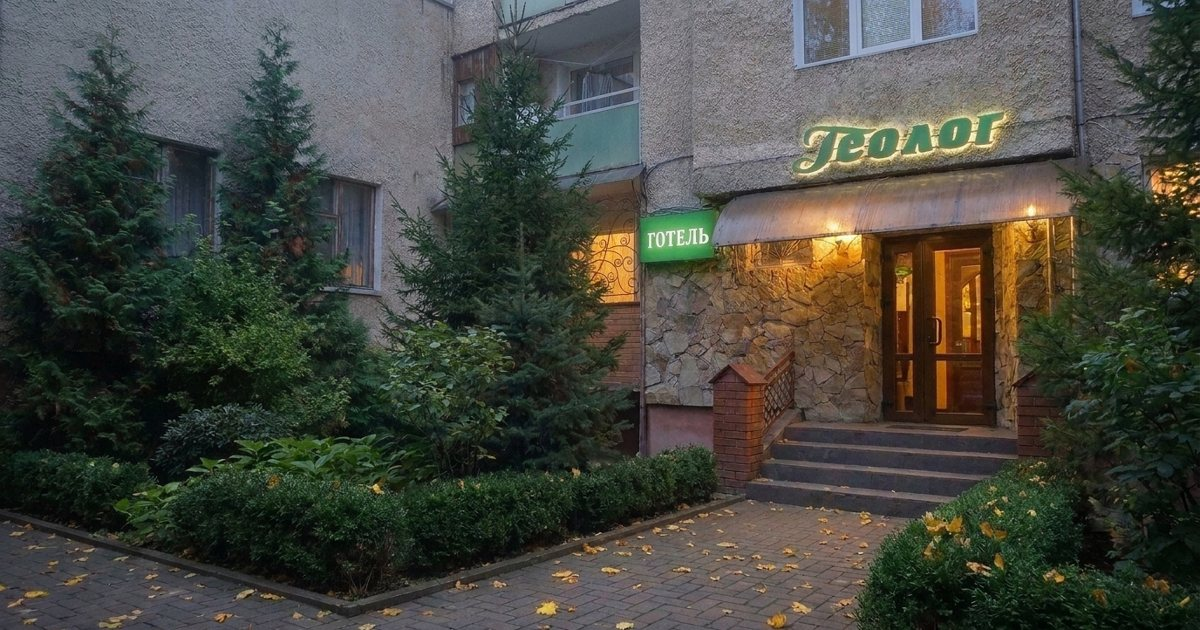
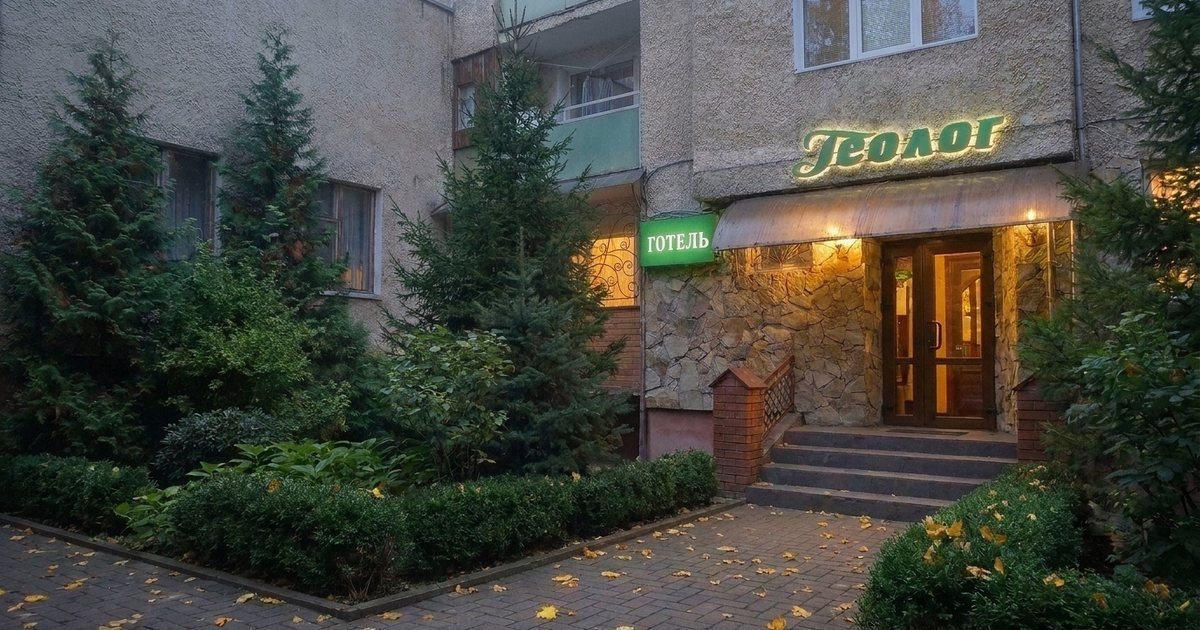
Family room and bathroom: new photos from the owner, retouched

diff --git a/index.html b/index.html
@@ -962,7 +962,7 @@ textarea.inp{height:auto;min-height:92px;padding:13px 14px;line-height:1.45;resi
           <div class="rcard__bar"><div><h3>Двомісний</h3><p>одне велике ліжко або два окремі</p></div><span class="rcard__go" aria-hidden="true"><svg class="i"><use href="#i-arrow"/></svg></span></div>
         </article>
 <article class="rcard">
-          <img width="1600" height="1200" src="img/fam-1.webp" alt="Сімейний номер" loading="lazy" decoding="async">
+          <img width="1200" height="896" src="img/fam-new-1.webp" alt="Сімейний номер" loading="lazy" decoding="async">
           <button class="rcard__hit" type="button" data-open="tpl-fam" aria-label="Сімейний, детальніше"></button>
           <div class="rcard__bar"><div><h3>Сімейний</h3><p>для батьків з дітьми</p></div><span class="rcard__go" aria-hidden="true"><svg class="i"><use href="#i-arrow"/></svg></span></div>
         </article>
@@ -1047,7 +1047,9 @@ textarea.inp{height:auto;min-height:92px;padding:13px 14px;line-height:1.45;resi
       </div>
     </div>
     <div class="gal" id="gal" data-rv tabindex="-1">
+      <button class="gal__i js-lb" type="button" data-cap="Сімейний номер після ремонту, фото готелю"><img width="1200" height="896" src="img/fam-new-1.webp" alt="Сімейний номер після ремонту" loading="lazy" decoding="async"></button>
       <button class="gal__i js-lb" type="button" data-cap="Двомісний номер з великим ліжком, фото готелю"><img width="406" height="900" src="img/dbl-3.webp" alt="Двомісний номер з великим ліжком" loading="lazy" decoding="async"></button>
+      <button class="gal__i js-lb" type="button" data-cap="Ванна кімната з новою плиткою, фото готелю"><img width="896" height="1200" src="img/vanna-1.webp" alt="Ванна кімната з новою плиткою" loading="lazy" decoding="async"></button>
       <button class="gal__i js-lb" type="button" data-cap="Сходи до входу з вивіскою «Геолог», фото готелю"><img width="675" height="900" src="img/vkhid-2.webp" alt="Сходи до входу з вивіскою «Геолог»" loading="lazy" decoding="async"></button>
       <button class="gal__i js-lb" type="button" data-cap="Вхід з вулиці Степана Бандери, ялинки біля ганку, фото готелю"><img width="1600" height="900" src="img/fasad.webp" alt="Вхід з вулиці Степана Бандери, ялинки біля ганку" loading="lazy" decoding="async"></button>
       <button class="gal__i js-lb" type="button" data-cap="Спільна кухня: чайник, мікрохвильовка, посуд, фото готелю"><img width="1600" height="1200" src="img/kukhnia-1.webp" alt="Спільна кухня: чайник, мікрохвильовка, посуд" loading="lazy" decoding="async"></button>
@@ -1202,7 +1204,7 @@ textarea.inp{height:auto;min-height:92px;padding:13px 14px;line-height:1.45;resi
         <div class="mybook__room" aria-hidden="true">
           <img data-r="any" width="1600" height="900" class="is-on" src="img/fasad.webp" alt="" loading="lazy" decoding="async">
           <img data-r="dbl" width="406" height="900" src="img/dbl-3.webp" alt="" loading="lazy" decoding="async">
-          <img data-r="fam" width="1600" height="1200" src="img/fam-1.webp" alt="" loading="lazy" decoding="async">
+          <img data-r="fam" width="1200" height="896" src="img/fam-new-1.webp" alt="" loading="lazy" decoding="async">
           <img data-r="single" width="1200" height="1600" src="img/single-1.webp" alt="" loading="lazy" decoding="async">
         </div>
         <p class="mybook__name" id="myName">Будь-який вільний номер</p>
@@ -1343,14 +1345,14 @@ textarea.inp{height:auto;min-height:92px;padding:13px 14px;line-height:1.45;resi
       <ul><li>1 велике ліжко або 2 окремі</li><li>телевізор</li><li>шафа і столик</li><li>безкоштовний Wi-Fi</li></ul>
       <h4>Душ і кухня</h4>
       <ul><li>є номери з власним санвузлом</li><li>душ і кухня поруч, у блоці на кілька номерів</li></ul>
-      <p style="font-size:12.5px;color:#D9D6C9">Фото гостей і з картки готелю. Номери одного типу можуть трохи відрізнятися.</p>
+      <p style="font-size:12.5px;color:#D9D6C9">Фото готелю і гостей. Номери одного типу можуть трохи відрізнятися.</p>
     </div>
   </div>
 </template><template id="tpl-fam">
   <div class="rdlg__in">
     <div class="rdlg__pic">
-      <img width="1600" height="1200" class="rdlg__main" src="img/fam-1.webp" alt="Сімейний номер">
-      <div class="rdlg__thumbs"><button type="button" data-src="img/fam-1.webp" aria-current="true" aria-label="Фото 1"><img width="1600" height="1200" src="img/fam-1.webp" alt="" loading="lazy"></button><button type="button" data-src="img/kukhnia-2.webp" aria-label="Фото 2"><img width="1200" height="1600" src="img/kukhnia-2.webp" alt="" loading="lazy"></button><button type="button" data-src="img/korydor.webp" aria-label="Фото 3"><img width="1200" height="1600" src="img/korydor.webp" alt="" loading="lazy"></button></div>
+      <img width="1200" height="896" class="rdlg__main" src="img/fam-new-1.webp" alt="Сімейний номер">
+      <div class="rdlg__thumbs"><button type="button" data-src="img/fam-new-1.webp" aria-current="true" aria-label="Фото 1"><img width="1200" height="896" src="img/fam-new-1.webp" alt="" loading="lazy"></button><button type="button" data-src="img/fam-new-2.webp" aria-label="Фото 2"><img width="1200" height="896" src="img/fam-new-2.webp" alt="" loading="lazy"></button><button type="button" data-src="img/vanna-1.webp" aria-label="Фото 3"><img width="896" height="1200" src="img/vanna-1.webp" alt="" loading="lazy"></button><button type="button" data-src="img/vanna-2.webp" aria-label="Фото 4"><img width="896" height="1200" src="img/vanna-2.webp" alt="" loading="lazy"></button></div>
     </div>
     <div class="rdlg__body">
       <h3>Сімейний номер</h3>
@@ -1360,7 +1362,7 @@ textarea.inp{height:auto;min-height:92px;padding:13px 14px;line-height:1.45;resi
       <ul><li>1 велике двоспальне ліжко</li><li>2 односпальні ліжка</li><li>телевізор</li><li>безкоштовний Wi-Fi</li></ul>
       <h4>Душ і кухня</h4>
       <ul><li>душ і кухня поруч, у блоці</li><li>праску дадуть на прохання</li></ul>
-      <p style="font-size:12.5px;color:#D9D6C9">Фото гостей і з картки готелю. Номери одного типу можуть трохи відрізнятися.</p>
+      <p style="font-size:12.5px;color:#D9D6C9">Фото готелю і гостей. Номери одного типу можуть трохи відрізнятися.</p>
     </div>
   </div>
 </template><template id="tpl-single">
@@ -1377,7 +1379,7 @@ textarea.inp{height:auto;min-height:92px;padding:13px 14px;line-height:1.45;resi
       <ul><li>1 ліжко</li><li>телевізор</li><li>безкоштовний Wi-Fi</li></ul>
       <h4>Душ і кухня</h4>
       <ul><li>спільний душ і туалет у блоці</li><li>кухня з кавою і чаєм поруч</li></ul>
-      <p style="font-size:12.5px;color:#D9D6C9">Фото гостей і з картки готелю. Номери одного типу можуть трохи відрізнятися.</p>
+      <p style="font-size:12.5px;color:#D9D6C9">Фото готелю і гостей. Номери одного типу можуть трохи відрізнятися.</p>
     </div>
   </div>
 </template>
